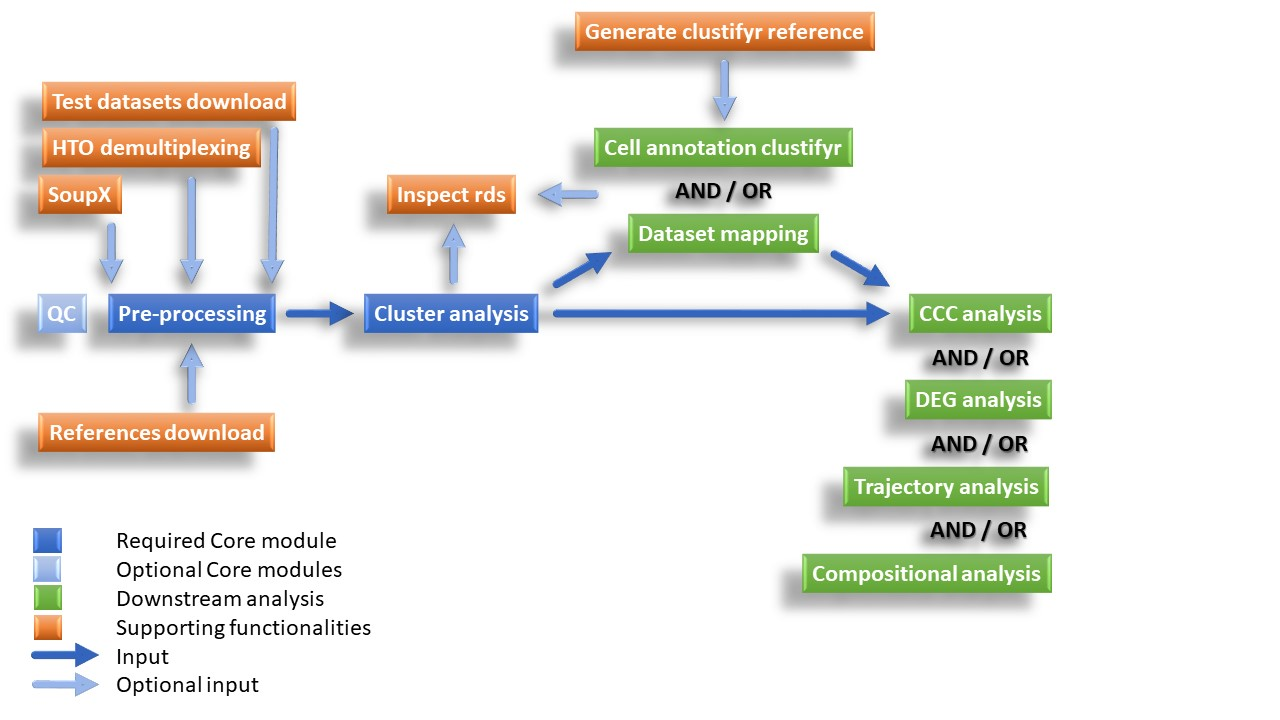
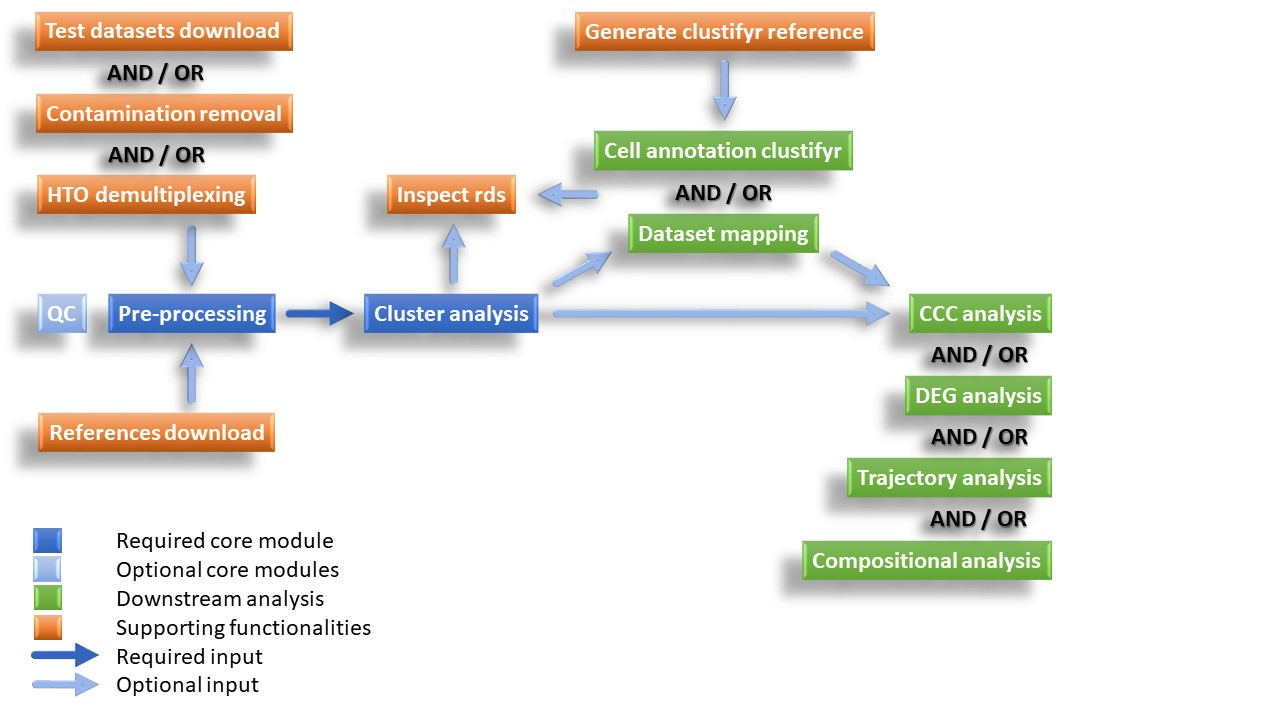
Include mRNA contamination removal via SoupX

diff --git a/README.md b/README.md
@@ -160,7 +160,8 @@ Module to generate clustifyr reference from a chosen dataset that has to be down
 
 ### Module: hto_demultiplexing (TO INCLUDE)
 
-### Module: soupx (TO INCLUDE)
+### Module: contamination_removal
+Estimation and removal of ambient mRNA contamination in droplet based single cell RNA-seq data (here specifically 10x Genomics cellranger output) utilizing SoupX R package. 
 
 
 
@@ -261,7 +262,7 @@ The folder also contains some handout-scripts for subsequent data investigation 
 <a name="credits"/>
 
 The workflow is based on the scrnaseq workflow (status May 4, 2022; Code on Zenodo: https://zenodo.org/record/7849063) developed by [Katrin Sameith](https://github.com/ktrns) and [Andreas Petzold](https://github.com/andpet0101) at the [Dresden-concept Genome Center (Dresden, Germany)](https://genomecenter.tu-dresden.de/about-us).
-The workflow is based on the [Seurat](https://satijalab.org/seurat/) package and the vignettes were used as templates. Further packages and vignettes utilized for generating downstream analysis modules include [Liana](https://saezlab.github.io/liana/articles/liana_tutorial.html), [Clustifyr](https://rnabioco.github.io/clustifyr/articles/clustifyR.html), [clustree](https://cran.r-project.org/web/packages/clustree/vignettes/clustree.html), and [SingleR](https://www.bioconductor.org/packages/devel/bioc/vignettes/SingleR/inst/doc/SingleR.html). 
+The workflow is based on the [Seurat](https://satijalab.org/seurat/) package and the vignettes were used as templates. Further packages and vignettes utilized for generating downstream analysis modules include [Liana](https://saezlab.github.io/liana/articles/liana_tutorial.html), [Clustifyr](https://rnabioco.github.io/clustifyr/articles/clustifyR.html), [clustree](https://cran.r-project.org/web/packages/clustree/vignettes/clustree.html), [SingleR](https://www.bioconductor.org/packages/devel/bioc/vignettes/SingleR/inst/doc/SingleR.html), and [SoupX](https://cran.r-project.org/web/packages/SoupX/vignettes/pbmcTutorial.html). 
 Many thanks to all who have contributed.
 
   
